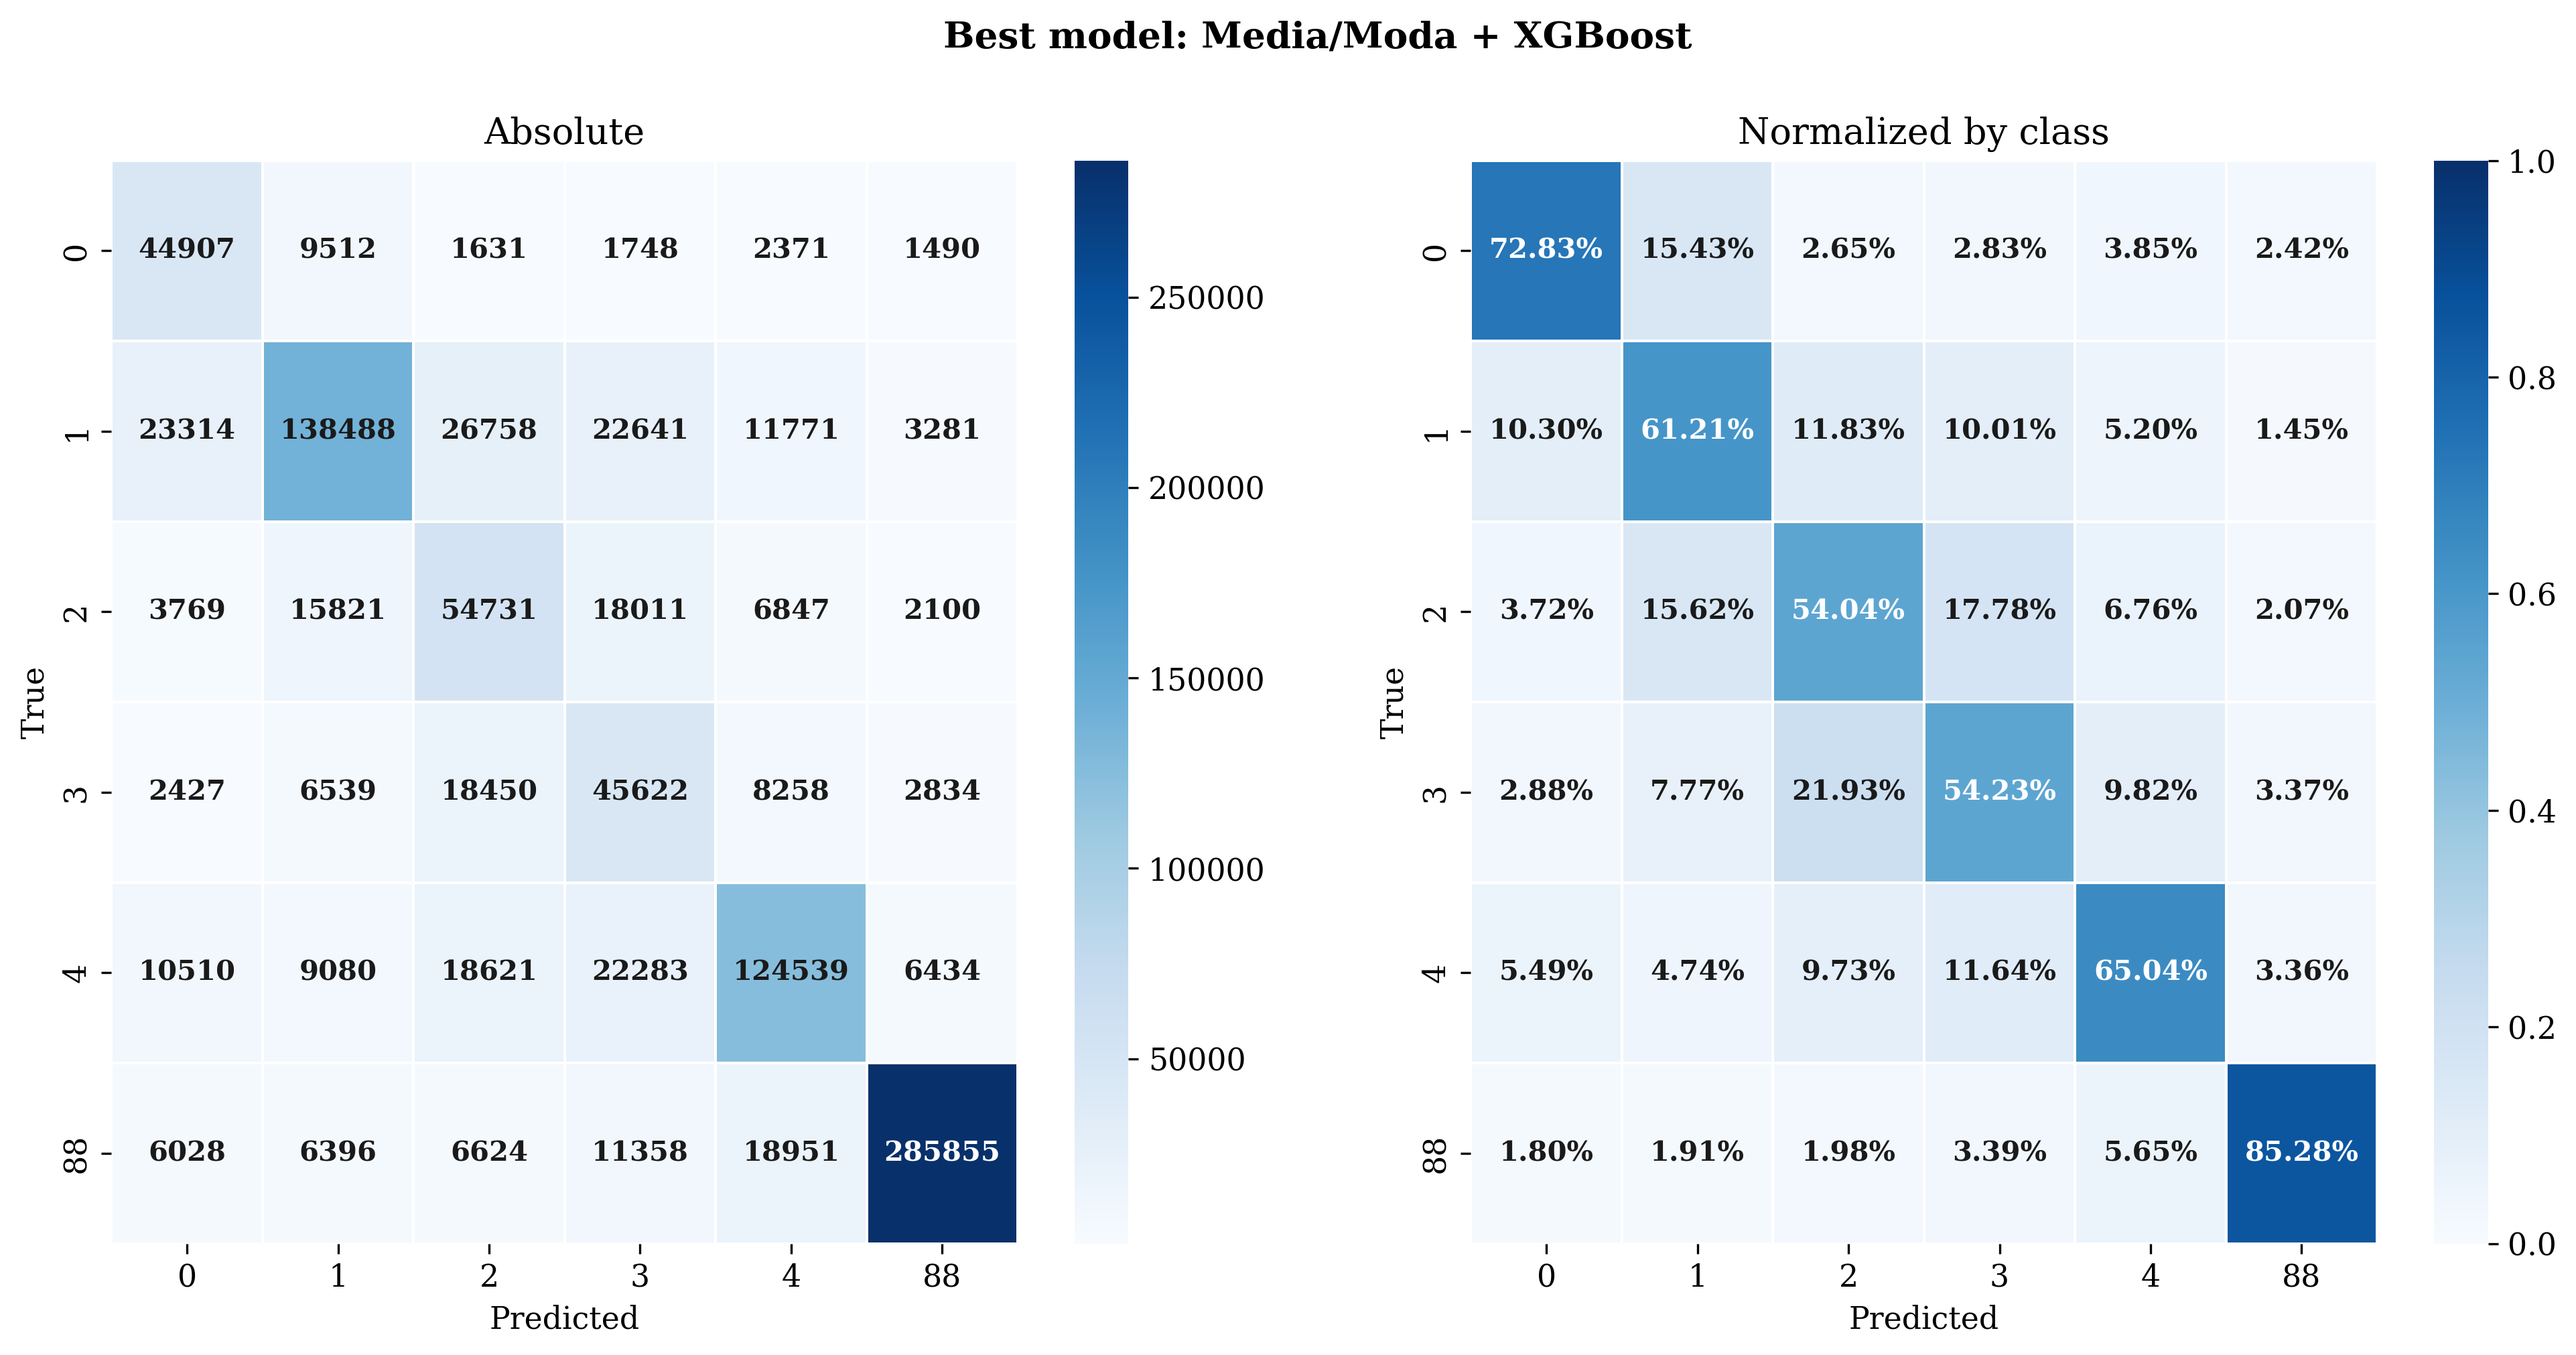
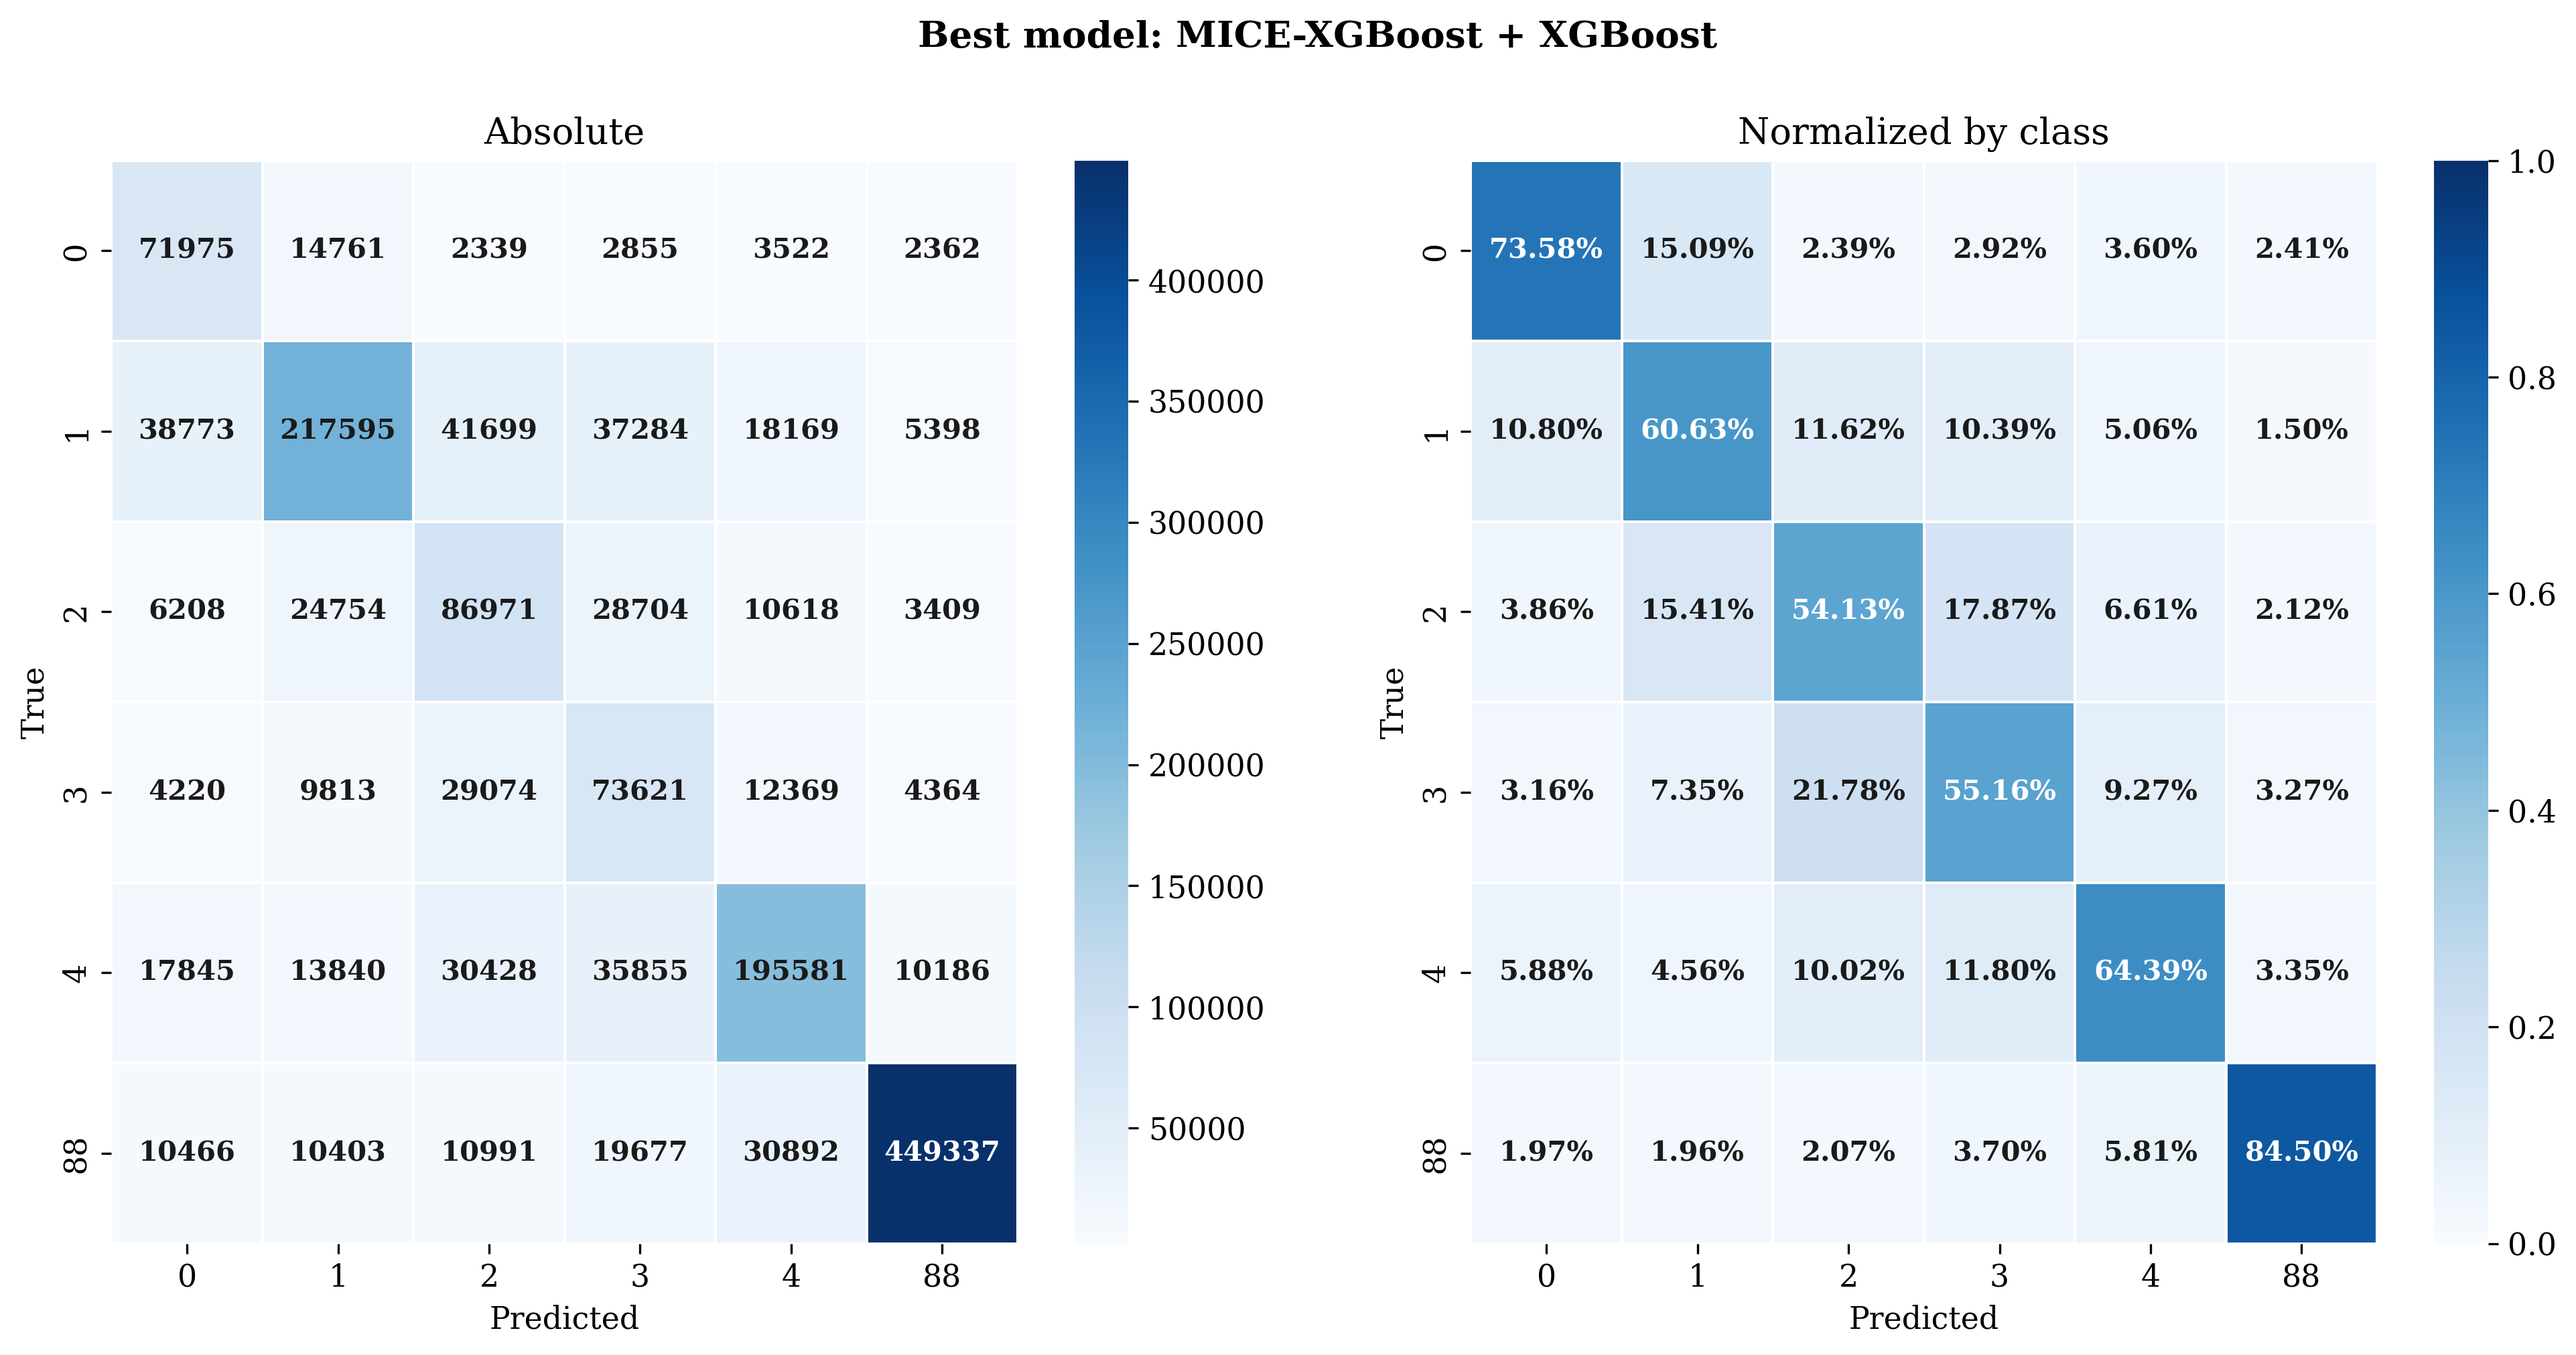
chore: atualizar README e artefatos do ultimo run

diff --git a/README.md b/README.md
@@ -95,8 +95,8 @@ Parametros mais importantes:
 - `data.target_col: ESTADIAM`
 - `data.valid_classes: [0,1,2,3,4,88]`
 - `data.missing_threshold: 0.60`
-- `cv.n_outer_folds: 3`
-- `cv.n_inner_folds: 3`
+- `cv.n_outer_folds: 5`
+- `cv.n_inner_folds: 5`
 - `classification.tuning.scoring: f1_weighted`
 
 ## Como executar
@@ -195,7 +195,7 @@ python src/run_ordinal_sensitivity.py --baseline NoImpute --bootstrap-iters 5000
   - `hybrid`: tuning em subset estratificado (mais rapido), com refit no treino completo
   - `fast`: sem tuning, com hiperparametros fixos predefinidos
 - Calcula metricas por fold
-- Gera checkpoint incremental (`results/raw/checkpoint_classification.json`)
+- Gera checkpoint incremental (`results/raw/checkpoint_classification_<mode>.json`)
 - Salva:
   - `results/raw/all_results.csv`
   - `results/raw/all_results_detailed.json`
@@ -241,59 +241,59 @@ Baseados nos artefatos atuais em `results/`.
 - Shape original: `5,399,686 x 47`
 - Apos filtro de data (2013-2023): `3,211,670`
 - Apos filtro de classes alvo: `1,586,358`
-- Shape final amostrado: `1,000,000 x 25`
+- Shape final amostrado: `1,586,358 x 25` (todos os registros validos)
 - Classes finais (encoded): `0->0`, `1->1`, `2->2`, `3->3`, `4->4`, `88->5`
 
 Distribuicao de classes na amostra final (`y_prepared`):
 
 | target | count |
 |---:|---:|
-| 0 | 61659 |
-| 1 | 226253 |
-| 2 | 101279 |
-| 3 | 84130 |
-| 4 | 191467 |
-| 5 | 335212 |
+| 0 | 97814 |
+| 1 | 358918 |
+| 2 | 160664 |
+| 3 | 133461 |
+| 4 | 303735 |
+| 5 | 531766 |
 
 ### Cobertura experimental
 
-- Runtime desta rodada: `hybrid` (`n_sample=1000000`, `tune_max_samples=60000`)
+- Runtime desta rodada: `hybrid` (`n_sample=999999999`, `tune_max_samples=20000`, `inner_folds=2`)
 - Combinacoes avaliadas em `summary.csv`: `20` (`18` principais + `2` baselines: `NoImpute + XGBoost` e `RawSemEncoding + CatBoost`)
-- Folds esperados: `60` (`20 x 3`)
-- Folds validos com metricas: `60`
+- Folds esperados: `100` (`20 x 5`)
+- Folds validos com metricas: `100`
 - Falhas: `0`
 
 ### Top combinacoes (ordenado por `f1_weighted_mean`)
 
 | imputer | classifier | accuracy_mean | f1_weighted_mean | auc_weighted_mean | time_total_mean (s) |
 |:---|:---|---:|---:|---:|---:|
-| Media | XGBoost | 0.6941 | 0.7060 | 0.9394 | 62.2 |
-| NoImpute | XGBoost | 0.6941 | 0.7059 | 0.9394 | 62.6 |
-| Mediana | XGBoost | 0.6940 | 0.7058 | 0.9392 | 58.7 |
-| MICE | XGBoost | 0.6938 | 0.7056 | 0.9390 | 127.5 |
-| MICE_XGBoost | XGBoost | 0.6933 | 0.7051 | 0.9389 | 271.9 |
-| kNN | XGBoost | 0.6931 | 0.7049 | 0.9387 | 2194.0 |
+| MICE_XGBoost | XGBoost | 0.6903 | 0.7028 | 0.9380 | 426.6 |
+| MissForest | XGBoost | 0.6902 | 0.7028 | 0.9380 | 1473.8 |
+| Media | XGBoost | 0.6895 | 0.7021 | 0.9376 | 55.0 |
+| Mediana | XGBoost | 0.6895 | 0.7021 | 0.9376 | 55.1 |
+| kNN | XGBoost | 0.6893 | 0.7020 | 0.9377 | 3679.0 |
+| NoImpute | XGBoost | 0.6873 | 0.7002 | 0.9368 | 53.3 |
 
 ### Media por classificador (sobre todos os imputadores)
 
 | classifier | accuracy_mean | f1_weighted_mean | auc_weighted_mean | time_total_mean (s) |
 |:---|---:|---:|---:|---:|
-| XGBoost | 0.6936 | 0.7054 | 0.9390 | 506.9 |
-| CatBoost | 0.6795 | 0.6923 | 0.9336 | 121.1 |
-| cuML_RF | 0.6869 | 0.6791 | 0.9206 | 529.8 |
-| cuML_SVM | 0.5139 | 0.4950 | 0.7663 | 555.3 |
+| XGBoost | 0.6888 | 0.7015 | 0.9374 | 845.4 |
+| CatBoost | 0.6817 | 0.6944 | 0.9343 | 119.8 |
+| cuML_RF | 0.6886 | 0.6815 | 0.9218 | 934.6 |
+| cuML_SVM | 0.5086 | 0.4841 | 0.7661 | 958.7 |
 
 ### Testes estatisticos
 
 Friedman (global, 20 combinacoes):
 
-- `f1_weighted`: estatistica `55.5894`, `p=1.89e-05` (significativo)
-- `auc_weighted`: estatistica `56.1613`, `p=1.54e-05` (significativo)
+- `f1_weighted`: estatistica `89.7168`, `p=3.72e-11` (significativo)
+- `auc_weighted`: estatistica `89.9634`, `p=3.37e-11` (significativo)
 
 Post-hoc Wilcoxon pareado com Bonferroni:
 
 - Nenhuma comparacao par-a-par ficou significativa (`p_bonf < 0.05`) nos arquivos atuais.
-- Contexto: ha apenas 3 folds externos, o que reduz poder estatistico no post-hoc.
+- Menor `p_bonf` observado: `1.0` (F1 e AUC).
 
 ### Efeito da imputacao (`results/tables/imputation_effect/`)
 
@@ -302,79 +302,48 @@ Configuracao desta rodada (manifesto em `results/tables/imputation_effect/manife
 - metrica: `f1_weighted`
 - `alpha=0.05`
 - margem de equivalencia: `0.005` (0.5 p.p.)
-- bootstrap: `1000` iteracoes
+- bootstrap: `5000` iteracoes
 - baseline: `NoImpute`
 
 Resumo global:
 
 - Comparacoes pareadas globais entre imputadores: `21`
-- Menor `p_wilcoxon_holm`: `0.0820` (nenhuma comparacao significativa apos Holm)
-- Maior diferenca media absoluta entre imputadores (`delta_mean`): `0.0052` (~0.52 p.p.)
+- Menor `p_wilcoxon_holm`: `1.0` (nenhuma comparacao significativa apos Holm)
+- Maior diferenca media absoluta entre imputadores (`delta_mean`): `0.0056` (~0.56 p.p.)
 
-Comparacao contra baseline `NoImpute` (XGBoost, `n_pairs=3`):
+Comparacao contra baseline `NoImpute` (XGBoost, `n_pairs=5`):
 
 | imputer | delta_mean F1 vs NoImpute | IC95% bootstrap | p_wilcoxon_holm | equivalente (TOST, margem=0.005) |
 |:---|---:|:---|---:|:---:|
-| Media | +0.000076 | [-0.000321, +0.000483] | 1.0000 | Sim |
-| Mediana | -0.000090 | [-0.000415, +0.000413] | 1.0000 | Sim |
-| MICE | -0.000319 | [-0.000885, -0.000017] | 1.0000 | Sim |
-| MICE_XGBoost | -0.000743 | [-0.001431, -0.000188] | 1.0000 | Sim |
-| kNN | -0.000982 | [-0.001700, -0.000213] | 1.0000 | Sim |
-| MissForest | -0.001099 | [-0.001415, -0.000500] | 1.0000 | Sim |
+| Media | +0.001903 | [-0.000923, +0.007034] | 1.0000 | Nao |
+| Mediana | +0.001898 | [-0.000927, +0.006971] | 1.0000 | Nao |
+| MICE | -0.001910 | [-0.002328, -0.001509] | 0.3750 | Sim |
+| MICE_XGBoost | +0.002648 | [-0.001440, +0.010287] | 1.0000 | Nao |
+| kNN | +0.001762 | [-0.002672, +0.009839] | 1.0000 | Nao |
+| MissForest | +0.002561 | [-0.001791, +0.010483] | 1.0000 | Nao |
 
 Leitura direta para o objetivo do projeto:
 
 - Nesta execucao, nao houve evidencia de ganho estatisticamente robusto de imputacao sobre `NoImpute`.
-- As diferencas observadas ficaram pequenas em magnitude pratica (ordem de milesimos de F1).
+- As diferencas observadas ficaram pequenas em magnitude pratica (ordem de milesimos de F1), com aumento de custo para imputadores mais pesados.
 
 ### Sensibilidade ordinal e classe 88 (`results/tables/ordinal_sensitivity/`)
 
-Configuracao desta rodada (manifesto em `results/tables/ordinal_sensitivity/manifest_ordinal.json`):
+- Nesta rodada, os artefatos de `ordinal_sensitivity` nao foram gerados.
+- Para reproduzir essa analise: `python src/run_ordinal_sensitivity.py`.
 
-- baseline: `NoImpute`
-- `alpha=0.05`
-- margem de equivalencia em QWK: `0.005`
-- bootstrap: `1000` iteracoes
-- mapeamento alvo: `88 -> 5`
-
-Melhor QWK por cenario:
-
-| scenario | melhor combinacao | qwk_mean |
-|:---|:---|---:|
-| all_classes | `NoImpute + XGBoost` | 0.7864 |
-| without_88 | `NoImpute + XGBoost` | 0.6754 |
-
-Media por classificador (QWK), com e sem `88`:
-
-| classifier | QWK all_classes | QWK without_88 | delta (without_88 - all_classes) |
-|:---|---:|---:|---:|
-| XGBoost | 0.7858 | 0.6750 | -0.1108 |
-| CatBoost | 0.7689 | 0.6562 | -0.1127 |
-| cuML_RF | 0.7440 | 0.6642 | -0.0799 |
-| cuML_SVM | 0.4913 | 0.4578 | -0.0335 |
-
-Inferencia ordinal:
-
-- `ordinal_qwk_pairwise.csv`: nenhuma comparacao significativa apos Holm.
-- `ordinal_qwk_baseline.csv`: nenhuma comparacao significativa apos Holm.
-
-Leitura direta:
-
-- Remover a classe `88` altera substancialmente a dificuldade do problema e reduz QWK em todos os classificadores.
-- Mesmo no cenario ordinal, as diferencas entre imputadores permaneceram pequenas nesta rodada.
-
-### Relatorio por classe do melhor modelo (Media + XGBoost)
+### Relatorio por classe do melhor modelo (MICE_XGBoost + XGBoost)
 
 | Classe | Precision | Recall | F1-Score | Support |
 |:---|:---|:---|:---|---:|
-| 0 | 0.4940 +- 0.0114 | 0.7283 +- 0.0023 | 0.5886 +- 0.0074 | 20553 |
-| 1 | 0.7452 +- 0.0014 | 0.6121 +- 0.0100 | 0.6721 +- 0.0063 | 75418 |
-| 2 | 0.4316 +- 0.0056 | 0.5404 +- 0.0018 | 0.4799 +- 0.0039 | 33760 |
-| 3 | 0.3752 +- 0.0079 | 0.5423 +- 0.0015 | 0.4434 +- 0.0053 | 28043 |
-| 4 | 0.7210 +- 0.0053 | 0.6504 +- 0.0069 | 0.6839 +- 0.0061 | 63822 |
-| 88 | 0.9465 +- 0.0013 | 0.8528 +- 0.0097 | 0.8972 +- 0.0059 | 111737 |
-| macro avg | 0.6189 +- 0.0053 | 0.6544 +- 0.0041 | 0.6275 +- 0.0058 | 333333 |
-| weighted avg | 0.7297 +- 0.0035 | 0.6941 +- 0.0067 | 0.7060 +- 0.0059 | 333333 |
+| 0 | 0.4816 +- 0.0080 | 0.7358 +- 0.0038 | 0.5821 +- 0.0055 | 19563 |
+| 1 | 0.7473 +- 0.0029 | 0.6063 +- 0.0040 | 0.6694 +- 0.0035 | 71784 |
+| 2 | 0.4316 +- 0.0042 | 0.5413 +- 0.0018 | 0.4803 +- 0.0032 | 32133 |
+| 3 | 0.3719 +- 0.0050 | 0.5516 +- 0.0035 | 0.4442 +- 0.0046 | 26692 |
+| 4 | 0.7213 +- 0.0055 | 0.6439 +- 0.0057 | 0.6804 +- 0.0056 | 60747 |
+| 88 | 0.9459 +- 0.0012 | 0.8450 +- 0.0084 | 0.8926 +- 0.0052 | 106353 |
+| macro avg | 0.6166 +- 0.0043 | 0.6540 +- 0.0037 | 0.6248 +- 0.0045 | 317272 |
+| weighted avg | 0.7289 +- 0.0033 | 0.6903 +- 0.0051 | 0.7028 +- 0.0046 | 317272 |
 
 ## Figuras (geradas automaticamente)
 
@@ -430,7 +399,7 @@ Tabelas (`results/tables/`):
   - `baseline_global_f1_weighted.csv`
   - `baseline_by_classifier_f1_weighted.csv`
   - `manifest_f1_weighted.json`
-- `ordinal_sensitivity/`
+- `ordinal_sensitivity/` (quando executado)
   - `ordinal_metrics_by_fold.csv`
   - `ordinal_metrics_summary.csv`
   - `ordinal_qwk_pairwise.csv`
@@ -441,8 +410,8 @@ Resultados brutos (`results/raw/`):
 
 - `all_results.csv`
 - `all_results_detailed.json`
-- `checkpoint_classification.json`
-- Para modos nao-default: `all_results_<mode>.csv`, `all_results_detailed_<mode>.json`, `checkpoint_classification_<mode>.json`
+- `checkpoint_classification_<mode>.json` (ex.: `checkpoint_classification_hybrid.json`)
+- Para modos nao-default: `all_results_<mode>.csv`, `all_results_detailed_<mode>.json`
 - `tempos_imputacao.json`
 - `experiment.log`
 - `pip_freeze.txt`
@@ -459,20 +428,22 @@ python main.py --step all --config config/config.yaml
 
 ## Limitacoes atuais
 
-- Nesta rodada (`hybrid`, `n=1000000`), nao houve falhas de fold, mas metodos com imputacao pesada (principalmente `kNN` e `MissForest`) elevaram bastante o tempo total.
-- Com `n_outer_folds=3`, os testes post-hoc tem baixo poder estatistico.
+- Nesta rodada (`hybrid`, `n efetivo=1,586,358`), nao houve falhas de fold, mas metodos com imputacao pesada (principalmente `kNN` e `MissForest`) elevaram bastante o tempo total.
+- Mesmo com `n_outer_folds=5`, os testes post-hoc com correcao multipla permaneceram sem significancia entre pares.
 - A qualidade final depende diretamente da qualidade do dicionario de codigos e da consistencia da base de origem.
-- As analises de efeito e sensibilidade foram executadas com `bootstrap=1000`; para estimativas mais estaveis, recomenda-se `>=5000`.
+- A analise de efeito foi executada com `bootstrap=5000`; para estimativas ainda mais estaveis, pode-se aumentar esse valor.
+- A analise `ordinal_sensitivity` nao foi executada nesta rodada.
 
 ## Discussao e implicacoes
 
 - Pergunta central: "imputacao melhora a classificacao?". Nesta execucao, a resposta e "nao de forma clara": as diferencas de F1 foram pequenas e sem significancia apos correcao multipla.
-- Do ponto de vista pratico-operacional, imputadores complexos aumentaram tempo computacional sem ganho consistente de desempenho.
-- A analise ordinal mostrou que a presenca/ausencia da classe `88` muda fortemente o nivel absoluto de desempenho. Portanto, qualquer conclusao sobre "melhor imputador" deve explicitar o cenario (`all_classes` vs `without_88`).
-- Para publicacao, a conclusao fica mais defensavel ao reportar ambos: efeito preditivo global (F1/AUC) e estabilidade ordinal (QWK + erros por distancia).
+- Do ponto de vista pratico-operacional, o melhor F1 desta rodada (`MICE_XGBoost + XGBoost`) veio com custo computacional bem maior que variantes simples (`Media/Mediana + XGBoost`) e sem evidencia estatistica robusta de superioridade.
+- Como `ordinal_sensitivity` nao foi gerado nesta rodada, a conclusao atual cobre apenas metricas classicas (F1/AUC/Accuracy/Recall).
+- Para consolidar uma conclusao metodologica mais forte, recomenda-se reportar em conjunto o efeito preditivo global e a estabilidade ordinal.
 
 ## Proximos passos sugeridos
 
-- Aumentar `n_outer_folds` (ex.: 5) para fortalecer inferencia estatistica.
+- Executar `python src/run_ordinal_sensitivity.py` para fechar a analise com metricas ordinais.
+- Aumentar `n_outer_folds` (ex.: 7) ou usar repeticoes de CV para fortalecer inferencia estatistica.
 - Testar calibracao de probabilidades para AUC multiclasses.
 - Executar analises estratificadas por subgrupos clinicos quando aplicavel.
